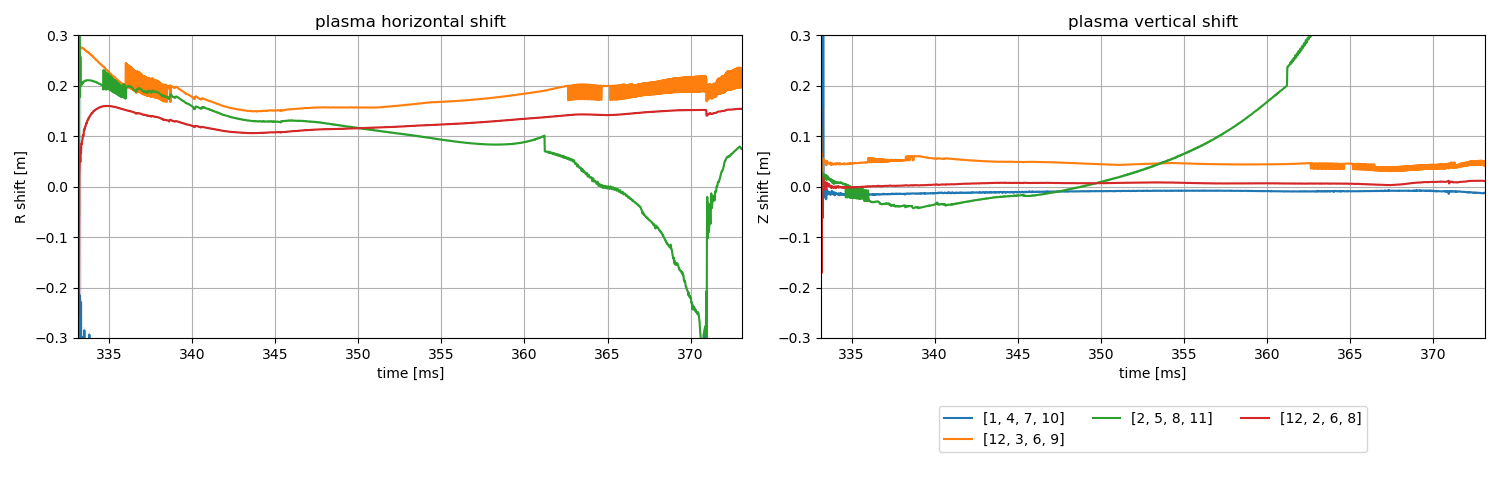
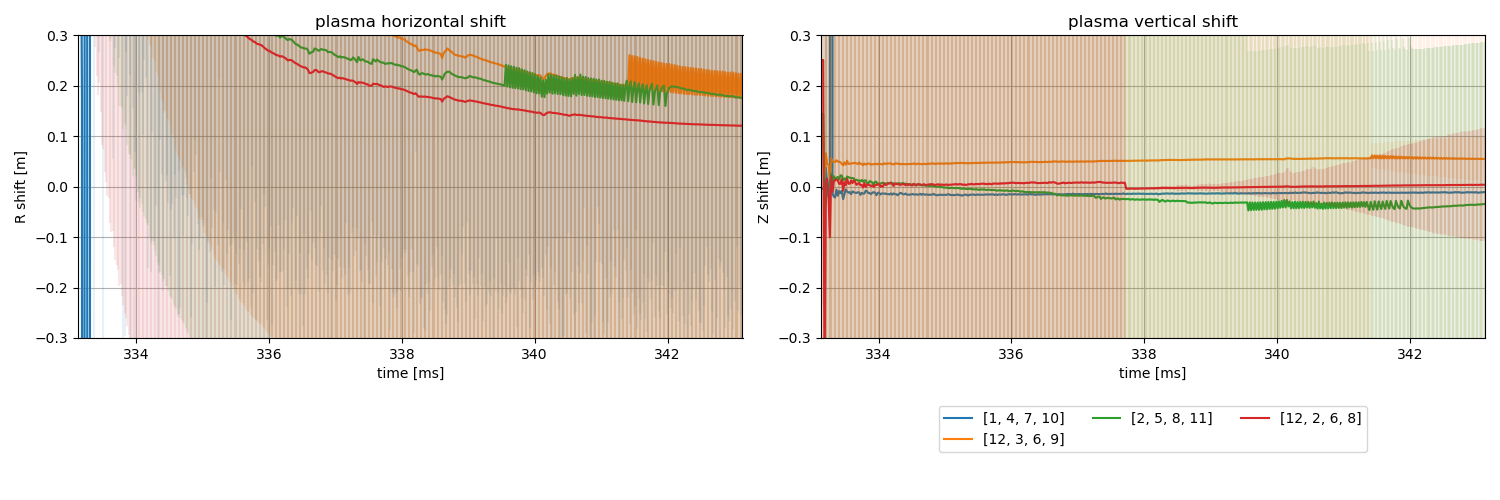
change calculation method in cal_shift to use a = 0

diff --git a/toroidalFilament_dir/plasma_shift.py b/toroidalFilament_dir/plasma_shift.py
@@ -88,13 +88,13 @@ def cal_shift(DxDz_method: Callable, taylor_order:int,signal: list[float], est_h
 
     Dx, Dz = DxDz_method(signal, coil_angle)
 
-    alpha, a_cov = cal_alpha(DxDz_method,Dz,taylor_order,est_horizontal_shift, coil_angle,vertical_range = alpha_vertical_range) ###check here
-    beta, b_cov = cal_beta(DxDz_method,Dx,taylor_order,est_vertical_shift, coil_angle, horizontal_range= beta_horizontal_range)
+    alpha, a_cov = cal_alpha(DxDz_method,0,taylor_order,est_horizontal_shift, coil_angle,vertical_range = alpha_vertical_range) ###check here
+    beta, b_cov = cal_beta(DxDz_method,0,taylor_order,est_vertical_shift, coil_angle, horizontal_range= beta_horizontal_range)
 
     a_cov, b_cov = np.diag(a_cov), np.diag(b_cov)
 
-    vertical_shift = make_taylor(taylor_order, a = Dz)(Dz,*alpha)
-    horizontal_shift = make_taylor(taylor_order, a = Dx)(Dx,*beta)
+    vertical_shift = make_taylor(taylor_order, a = 0)(Dz,*alpha)
+    horizontal_shift = make_taylor(taylor_order, a = 0)(Dx,*beta)
 
     vertical_shift_uncertainty = np.sqrt(np.sum((np.array(alpha) * a_cov) ** 2))
     horizontal_shift_uncertainty = np.sqrt(np.sum((np.array(beta) * b_cov) ** 2))
@@ -138,7 +138,7 @@ def cal_combined_shift(DxDz_method: Callable, taylor_order:int,signal: list[list
     ])
 
 #shift progression
-def toroidal_filament_shift_progression(time_df:pd.DataFrame,signal_df:pd.DataFrame,probe_number:list[list[int]],taylor_order:int = 2,DxDz_method = cal_newton_DxDz):
+def toroidal_filament_shift_progression(time_df:pd.DataFrame,signal_df:pd.DataFrame,probe_number:list[list[int]],taylor_order:int = 3,DxDz_method = cal_newton_DxDz):
     """
     use magnetic signal to calculate plasma shift at each time step for each specified array in magnetic probes
 
@@ -178,7 +178,7 @@ def toroidal_filament_shift_progression(time_df:pd.DataFrame,signal_df:pd.DataFr
 
                 shift = cal_shift(DxDz_method=DxDz_method, taylor_order=taylor_order,signal = s,
                                 est_horizontal_shift=est_R_shift, est_vertical_shift=est_Z_shift,coil_angle=probe_angles[i],
-                                alpha_vertical_range=np.linspace(-0.01,0.01,101), beta_horizontal_range=np.linspace(-0.01,0.01,101))
+                                alpha_vertical_range=np.linspace(-0.15,0.15,151), beta_horizontal_range=np.linspace(-0.15,0.15,151))
 
                 R_shift, R_err = shift[0]
                 Z_shift, Z_err = shift[1]

diff --git a/toroidalFilamentResult.py b/toroidalFilamentResult.py
@@ -9,7 +9,6 @@ from process_probe_data import retreive_plasma_current, retreive_magnetic_signal
 from toroidalFilament_dir.plasma_shift import toroidal_filament_shift_progression
 
 shot_lst = list(range(961,968))
-shot_lst = [961]
 time_extension = 10 #ms
 
 for shot_no in shot_lst:
